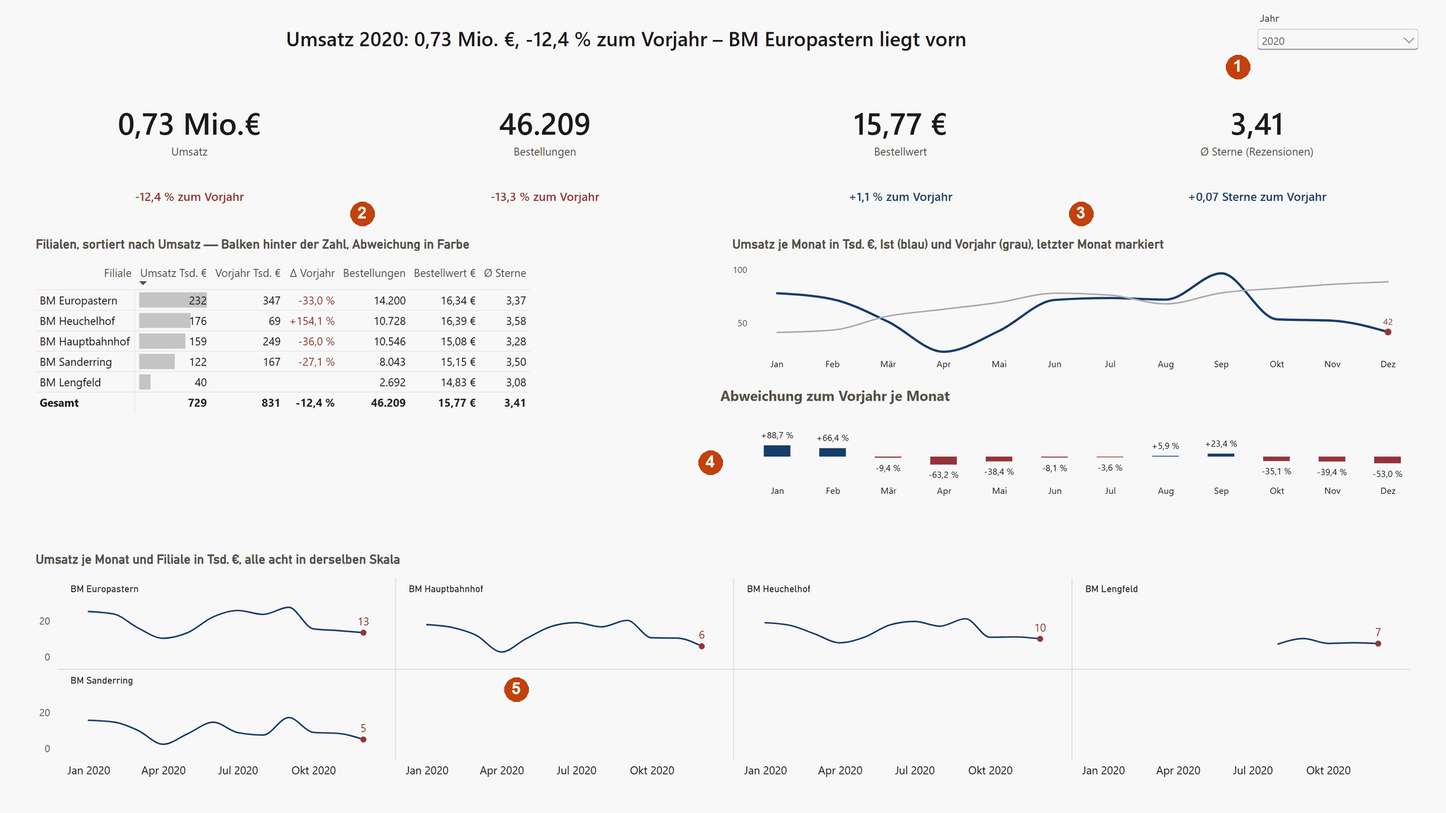
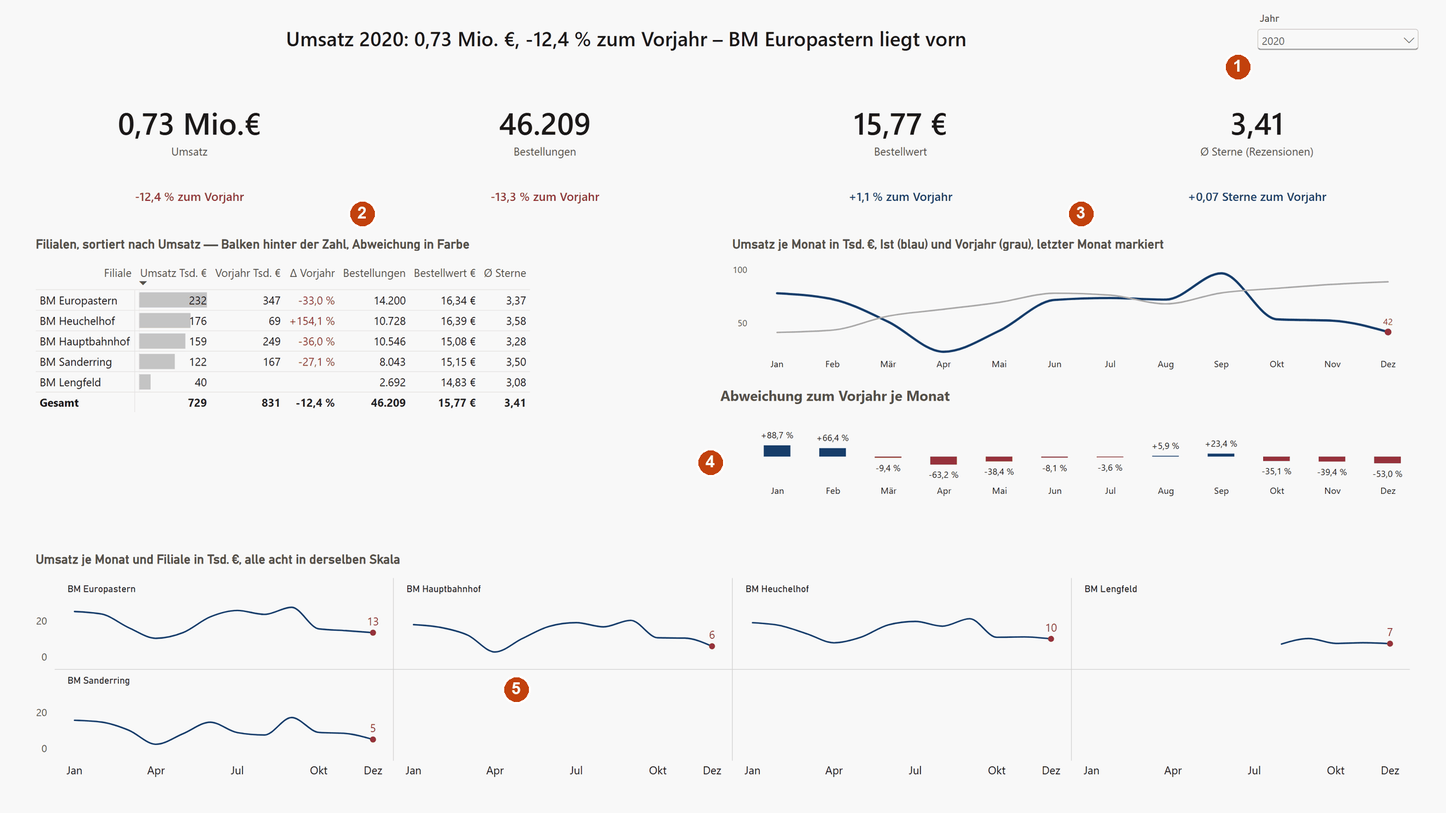
lab 04: erster und letzter Monat an der Achse der Small Multiples
Die stetige Datumsachse konnte den Dezember nicht anzeigen — Power BI setzt
ihre Teilstriche auf Quartalsanfänge, und ein Achsenminimum verschiebt sie
nicht. Stattdessen eine berechnete Spalte auf kategorialer Achse:

  Monatsstufe = IF(MOD(dim_date[month] - 1, 3) = 0 || dim_date[month] = 12,
      dim_date[Monat], REPT(UNICHAR(8203), dim_date[month]))

Sie gibt das Kürzel nur für Januar, April, Juli, Oktober und Dezember zurück,
für die übrigen Monate eine unterschiedlich lange Kette aus Zeichen ohne
Breite. Alle zwölf Kategorien bleiben verschieden, sichtbar sind fünf:
Jan · Apr · Jul · Okt · Dez, der letzte genau unter dem roten Endpunkt.

Die Spalte Monatsbeginn ist damit überflüssig und aus dem Modell entfernt.
Alle drei Bilder neu aufgenommen; dashboard-smallmultiples.png zeigt jetzt
die Formelleiste mit der Spalte statt der Achseneinstellung. Lab 04, DAX-
Vorlage, B04 und Spec nachgezogen.

diff --git a/web/lab/lab-04-powerbi.html b/web/lab/lab-04-powerbi.html
@@ -313,16 +313,15 @@
     </div>
     <div class="shot">
       <div class="shot-bar"><span class="ampel"><i></i><i></i><i></i></span><span class="titel">Small Multiples</span><span class="spacer"></span>Power BI Desktop · August 2026</div>
-      <a class="foto" href="assets/powerbi/dashboard-smallmultiples.png" target="_blank" rel="noopener"><img src="assets/powerbi/dashboard-smallmultiples.png" alt="Dashboard-Seite mit markiertem Liniendiagramm der acht Filialen; rechts der Build-Bereich mit X-Achse Monatsbeginn, Y-Achse Umsatz und letzter Monat, Small Multiples Filiale; daneben der Formatbereich mit X-Achse, Typ Fortlaufend und dem Abschnitt Bereich; im Dashboard acht Linien mit den Achsenbeschriftungen Jan 2025, Apr 2025, Jul 2025, Okt 2025 und roten Endpunkten" width="2056" height="1174" loading="lazy"></a>
+      <a class="foto" href="assets/powerbi/dashboard-smallmultiples.png" target="_blank" rel="noopener"><img src="assets/powerbi/dashboard-smallmultiples.png" alt="Power BI Desktop mit markiertem Liniendiagramm der acht Filialen; oben die Formelleiste mit Monatsstufe = IF(MOD(dim_date[month] - 1, 3) = 0 || dim_date[month] = 12, dim_date[Monat], REPT(UNICHAR(8203), dim_date[month])); rechts der Build-Bereich mit X-Achse Monatsstufe, Y-Achse Umsatz und letzter Monat, Small Multiples Filiale; im Dashboard acht Linien mit den Achsenbeschriftungen Jan, Apr, Jul, Okt, Dez und roten Endpunkten über Dez" width="2056" height="1159" loading="lazy"></a>
     </div>
     <p class="foto-hinweis">Bildschirmfoto vom 22.09.2026, Power BI Desktop 2.157.1354.0 (August 2026) unter Windows 11, deutsche Oberfläche — zum Vergrößern anklicken.</p>
     <ol class="shot-legende">
-      <li><span class="callout">1</span><span>X-Achse: die Spalte <code>Monatsbeginn</code> aus <code>dim_date</code> — <code>DATE(dim_date[year], dim_date[month], 1)</code>, also der Erste jedes Monats. Ein Datum statt der Textspalte <code>Monat</code>, damit die Achse stetig sein kann.</span></li>
-      <li><span class="callout">2</span><span>Typ „Fortlaufend“ (Format → X-Achse): Power BI setzt die Beschriftungen selbst — hier vier statt zwölf, Jan 2025 bis Okt 2025. Eine kategoriale Achse beschriftet jeden der zwölf Monate; in acht kleinen Diagrammen wird das unruhig.</span></li>
-      <li><span class="callout">3</span><span>Y-Achse: <code>Umsatz Tsd</code> und dazu <code>Umsatz Tsd letzter Monat</code>, ein Measure, das nur im jüngsten Monat einen Wert hat. Es zeichnet den roten Punkt und trägt die einzige Beschriftung.</span></li>
+      <li><span class="callout">1</span><span>Die berechnete Spalte <code>Monatsstufe</code> in der Formelleiste: Sie gibt für Januar, April, Juli, Oktober und Dezember das Monatskürzel zurück, für die übrigen Monate eine unterschiedlich lange Kette aus Zeichen ohne Breite (<code>UNICHAR(8203)</code>). So bleiben alle zwölf Kategorien verschieden, aber nur fünf tragen eine sichtbare Beschriftung. Sortiert wird nach <code>month</code> (Spaltentools → Nach Spalte sortieren).</span></li>
+      <li><span class="callout">2</span><span>X-Achse: <code>Monatsstufe</code> statt <code>Monat</code>. Die Achse bleibt kategorial — Power BI beschriftet jede Kategorie, und die leeren fallen nicht auf. Eine stetige Datumsachse kann das nicht: Sie setzt ihre Teilstriche auf Quartalsanfänge und lässt den letzten Monat weg.</span></li>
+      <li><span class="callout">3</span><span>Y-Achse: <code>Umsatz Tsd</code> und dazu <code>Umsatz Tsd letzter Monat</code>, ein Measure, das nur im jüngsten Monat einen Wert hat. Es zeichnet den roten Punkt und trägt die einzige Beschriftung — Marker und Datenbeschriftungen sind je Serie eingestellt (Format → Marker bzw. Datenbeschriftungen → Einstellungen übernehmen auf → Serie).</span></li>
       <li><span class="callout">4</span><span>Small Multiples: <code>branch_name</code> — aus einem Diagramm werden acht, zwei Zeilen zu vier Spalten (Format → Small Multiples → Layout).</span></li>
-      <li><span class="callout">5</span><span>Das Ergebnis mit gemeinsamer Skala 0 bis 50 Tsd. €: Die Höhe der Linie ist zwischen den Filialen vergleichbar, weil jede dieselbe Achse hat.</span></li>
-      <li><span class="callout">6</span><span>Marker und Datenbeschriftungen je Serie: für <code>Umsatz Tsd</code> aus, für <code>letzter Monat</code> an — Format → Datenbeschriftungen bzw. Marker → Einstellungen übernehmen auf → Serie.</span></li>
+      <li><span class="callout">5</span><span>Das Ergebnis: <strong>Jan · Apr · Jul · Okt · Dez</strong> unter jeder der acht Linien, der rote Endpunkt genau über „Dez“, und eine gemeinsame Skala 0 bis 50 Tsd. € — die Höhe der Linie ist zwischen den Filialen vergleichbar, weil jede dieselbe Achse hat.</span></li>
     </ol>
     <div class="concept-box">
       <h3>Was das Dashboard nicht tut</h3>

diff --git a/docs/superpowers/specs/2026-09-12-bm-analyse-lernumgebung-design.md b/docs/superpowers/specs/2026-09-12-bm-analyse-lernumgebung-design.md
@@ -472,7 +472,7 @@ jeder Seite im Browser (Kopf, Navigation, Übungen, Datenbankband), Aufruf von
 
 **Stand 21. September 2026 (Prüfung von Lab 04 mit Power BI Desktop, dazu ein Dashboard):** Lab 04 wurde in Roberts Parallels-VM (Windows 11, deutsche Oberfläche) mit Power BI Desktop 2.157.1354.0 (August 2026) und dem Demo-Konto durchgespielt: Verbindung, Navigator, Import der sieben Tabellen, Modellansicht, fünf Measures, Seite „Bericht“ (Tabelle der Kontrollzahlen, Balken je Filiale, Linie je Monat, Seitenfilter 2025) — Kontrollzahlen 2.994.771,13 € · 136.557 · 21,93 € · 3,75 wie in `v_kennzahlen_jahr`. Auf Roberts Wunsch kam eine Seite „Dashboard“ nach den Regeln aus `references/diagramme.md` (Tufte, Bissantz, IBCS) dazu: Titel als Measure, vier Kacheln mit Abweichung zum Vorjahr, Matrix der Filialen mit Datenbalken hinter der Zahl, Ist gegen Vorjahr je Monat mit markiertem letztem Punkt, Abweichung als eigene Zeile in Grün/Rot, Small Multiples je Filiale in gleicher Skala, Monatskürzel auf den Achsen; 20 zusätzliche Measures und die Spalte `Monat` (Vorlage `web/lab/vorlagen/powerbi-dashboard.dax`), das Projekt als PBIP ohne Daten und Kennwort unter `powerbi/BurgerMetrics/` (die Seite „Dashboard“ ist als PBIR-JSON geschrieben und in Power BI geladen, geprüft und gespeichert). Befunde und Folgen im Lab: (1) Die Verbindung ist ein einziger Dialog „Mit Datenquelle verbinden“ (Server mit Port, Datenbank, Importieren/DirectQuery, Erweiterte Optionen mit SQL-Anweisung, Authentifizierungsart Standard, Datenschutzebene, Kästchen „Verschlüsselte Verbindung verwenden“); der Wortlaut einer Warnung zur unverschlüsselten Verbindung trat nicht auf (Anmeldung war gespeichert) und wird nicht mehr behauptet. (2) Der Navigator listet Tabellen und gewöhnliche Sichten (48 Einträge), keine materialisierten — die 38 `v_*` fehlen; Weg über „SQL-Anweisung“ mit Genehmigung der nativen Abfrage belegt (`v_kennzahlen_jahr`, zehn Zeilen). (3) Nach dem Laden entstanden acht Beziehungen (alle `_id`-Spalten, im Projekt `AutoDetected_`), die zwei Fremdschlüssel auf `dim_date.date` fehlten trotz beider Optionen und wurden von Hand angelegt; `fact_reviews → fact_orders` legte Power BI selbst als 1:1 inaktiv an (`order_id` beidseitig eindeutig). Die Aussage „13 Fremdschlüssel → 13 Beziehungen“ ist gestrichen. (4) DirectQuery über `fact_order_items` scheitert mit dem belegten Wortlaut „Das Resultset einer Abfrage an eine externe Datenquelle hat die maximal zulässige Größe von 1000000 Zeilen überschritten.“; die inaktive Filialbeziehung zeigt in jedem Balken die Gesamtsumme plus eine Zeile „(Leer)“ (nachgestellt). (5) Die zwei Nachbildungen sind durch 20 Bildschirmfotos unter `web/lab/assets/powerbi/` ersetzt (2,6 MB); Lab 04 hat einen neuen Abschnitt „Das Dashboard“, Befehlskarten B03/B04, Checkliste W04-05 mit acht Schritten, Quizfrage zu den Beziehungen; `LABS` in `bm.js` nennt 150 Minuten; `verify.mjs` 803 Zusicherungen, 0 Fehler. Werkzeuglehre: Parallels-Fenster nur per `computer_batch` bedienbar; Mac-seitiges Schreiben in den VM-Ordner hinterlässt `._*`-Dateien, die Power BI als TMDL zu lesen versucht — vor jedem Öffnen löschen. Nicht geprüft: der Wortlaut der Verschlüsselungswarnung, die Fan Trap im Modell (Zahlen aus SQL), das Verhalten mit allen 14 Tabellen.
 
-**Stand 22. September 2026 (Kennzahlen-Dashboard in Tableau):** Auf Roberts Wunsch wurde das Dashboard aus Lab 04 mit Tableau Desktop 2026.2 (macOS, deutsche Oberfläche, Demo-Konto) nachgebaut und Lab 05 um den Abschnitt „Das Kennzahlen-Dashboard“ erweitert (Roberts Vorgabe vom 22.09.: keine Nennung von Tufte/Bissantz in Überschriften — auch die Lab-04-Einleitung angepasst): Datenquelle aus `fact_orders`, `dim_branch` und `fact_reviews` (Beziehung `Order Id = Order Id`, von Tableau nicht vorgeschlagen) als Extrakt; Parameter `Jahr` statt eines Filters, weil ein Filter das Vorjahr aus dem Blatt entfernen würde — Ist und Vorjahr als `SUM(IF YEAR([Date]) = [Jahr] THEN [Net Total] END)` und `[Jahr] - 1`, ohne Datumstabelle; 27 Calculated Fields (`web/lab/vorlagen/tableau-dashboard-felder.txt`, Befehlskarte B05), darunter der rote Punkt als Doppelachse mit einem Feld, das nur im jüngsten Monat einen Wert hat, `Top Filiale` als verschachtelter FIXED-Ausdruck und der Titel als Feld (`STR()` schreibt Dezimalpunkte, `REPLACE` das Komma); zehn Blätter; nach Roberts Rückmeldung zur ersten Fassung („zu gedrängt, zu wenig Weißraum, untere Grafik zu lang gestreckt“) neu gesetzt: 1600 × 1100, ein vertikaler Container als Rahmen mit horizontalen Containern fester Höhe je Reihe (80/140/390), zwölf Pixel äußere Füllung je Kachel und 20 am Rand, Trenn- und Rasterlinien über Format → Linien entfernt, die Small Multiples in der dritten Runde (Roberts Rückmeldung: Filialname als Überschrift, nicht als Label; gleiche Höhen; letzter Monat an der Achse; Dropdown) als zwei Blätter zu je vier Filialen mit `Branch Name` auf Spalten (Überschrift), Filter auf die Tabellenberechnung `Zeile = INT((INDEX() - 1) / 4)` (0/1, Berechnen per Branch Name), feste Achse 10–60, Teilstriche der Monatsachse alle zwei Monate ab Februar (Dez. angetragen); Balken und Tabelle auf „Gesamte Ansicht“, damit die mittlere Reihe unten bündig schließt; die Abweichung behält ihre Achse in Weiß plus 25 px innere Füllung, ihr Titel ist ein Textobjekt, damit Linie und Säulen monatsgenau übereinanderstehen; Linienachsen ohne Null, Monatskürzel über das Datumsformat „Abkürzung“; der Parameter mit Werteliste 2018–2026 unverankert (Layout x 1380, y 24, 180 × 56) als Kompaktliste (Dropdown), Blatttitel als Legende mit `<Parameter.Jahr>`, Achsentitel und Feldbeschriftungen ausgeblendet, Aliasse für die Spaltenköpfe (Befehlskarte B06). Kontrollzahlen wie in Lab 04: 2.994.771 · 136.557 · 21,93 · 3,750, Abweichungen +5,4 % · +2,4 % · +2,9 % · +0,05 Sterne, Titel „Umsatz 2025: 2,99 Mio. €, +5,4 % zum Vorjahr – BM Europastern liegt vorn“. Zwölf weitere Bildschirmfotos unter `web/lab/assets/tableau/` (Fensteraufnahmen; Menüs und Dialoge als eigene Fenster aufgenommen und an ihrer Bildschirmposition eingesetzt, weil eine Vollbildaufnahme fremde Fenster mitnähme), die Arbeitsmappe unter `tableau/BurgerMetrics.twb` (XML, ohne Daten und Kennwort, `tableau/README.md`), Sperrdatei über `.gitignore` ausgeschlossen; Quiz W05-03 um die Frage Parameter gegen Filter, Checkliste W05-05 um die Kür ergänzt; Lab 05 auf 150 Minuten; `verify.mjs` 815 Zusicherungen, 0 Fehler. Befunde: (1) Tableau-Kacheln im Raster lassen sich nicht über die Größenfelder des Layout-Reiters setzen (nur Anzeige), Ränder werden gezogen oder Container verteilt; (2) Anpassung und Blatttitel sind je Kachel im Dashboard einzustellen, nicht im Blatt; (3) ein Textblatt in Standard-Anpassung bricht Spaltenköpfe um, im Dashboard erst nach einer höheren Kopfzeile — deshalb Aliasse mit Trennstrich („Bestel- lungen“); (4) `STR()` einer Zahl liefert den Dezimalpunkt der Formelsprache, nicht der Oberfläche; (5) Kacheln bekommen ihre Höhe verlässlich nur über „Höhe fixieren“ im Menü des umgebenden Containers, die Größenfelder im Layout-Reiter sind bei Rasterkacheln nur Anzeige; (6) eine Tabellenberechnung mit `INDEX()` zählt ohne „Berechnen per“ die innerste Dimension (Monate) — für das Raster muss sie über `Branch Name` laufen. Vierte Runde (Robert): alle Hilfslinien entfernt — je Blatt Format → Linien (Raster-, Null-, Achsenmaßstäbe, Achsenteilstriche „Keine“, Reiter Blatt/Zeilen/Spalten getrennt) und Format → Rahmen (Zeilen-/Spaltentrennung „Keine“); Lab 05 verlinkt die `.twb` im Repository (Vorlagenkarte, Stand-Hinweis, Fotohinweis). Fünfte Runde (Robert, nach dem Merge): Signalfarben plus Blau `#4E79A7` (Blau der Ist-Linie) und minus Rot `#E15759` statt Grün — in der Mappe war minus bis dahin das Tableau-Standardblau; gesetzt über „Farben bearbeiten…“ am Feld `Δ Umsatz Richtung` (der Wert „minus“ erscheint dort erst, wenn der Parameter auf ein Jahr mit Minus-Monaten steht) und als Schriftfarbe der Δ-Zeile in den vier Karten; neues Bild `dashboard-farben.png`, Lab-Text nennt die Grenze, dass Kartentexte eine feste Schriftfarbe haben. Lab 04 (Power BI) am selben Tag nachgezogen: die vier Farb-Measures auf `#003E6E` (THWS-Blau, Leitfarbe der Ist-Linie), Modell in der VM über „Apply external changes“ neu geladen und mit `Aktualisieren` neu gerechnet (ein Neuladen allein genügt nicht — die Visuals behalten ihr Abfrageergebnis; zwei Visuals meldeten dabei „Der Vorgang wurde abgebrochen“ und rendern nach einem zweiten Lauf), Bildschirmfoto `assets/powerbi/dashboard.png` neu, Lab-04-Text, DAX-Vorlage und Befehlskarte B03 angepasst; die von Power BI beim Speichern neu erzeugte `cultures/de-DE.tmdl` (16.000 Zeilen linguistische Metadaten) wurde nicht übernommen. Weitere Befunde: (7) ein Blatt ohne Achse hat einen breiteren Zeichenbereich als eines mit Achse — gleiche Monatsspalten nur mit unsichtbarer (weißer) Achse; (8) eine Kachel im Raster bekommt Weißraum über „Äußere Füllung“, ihre Höhe über den umgebenden Container; (9) INDEX() für Small Multiples zählt ohne „Berechnen per“ die Monate. Sechste Runde (Robert: „mach das auch in Tableau dynamisch“): Die Δ-Zeile der vier Karten ist jetzt ein eigenes Blatt — Tableau färbt eine Beschriftung immer ganz, deshalb trägt „Karte Umsatz“ nur Zahl und Name, „Karte Umsatz Δ“ nur die Δ-Zeile mit `Δ Umsatz Richtung` auf Farbe; dazu drei neue Richtungsfelder (`Δ Bestellungen Richtung`, `Δ Bestellwert Richtung`, `Δ Ø Sterne Richtung`; zusammen 30 Felder) und vier neue Blätter (zusammen fünfzehn). Die Streifen liegen unverankert unter ihrer Karte (y 207, 388 × 34, x 24 · 412 · 800 · 1188), die vier Farblegenden sind aus dem Dashboard entfernt; geprüft mit dem Parameter auf 2020 (Umsatz −12,4 % und Bestellungen −13,3 % in Rot) und auf 2019 (Ø Sterne −0,27 in Rot). Neues Bild `dashboard-delta.png`, neue Aufnahmen von `dashboard-fertig.png` und `dashboard-karte.png`; Vorlage, B05, B06, W05-05, `tableau/README.md` und der Abschnittstext nachgezogen. Am selben Tag in Power BI: die Small Multiples bekommen eine stetige Datumsachse — neue berechnete Spalte `Monatsbeginn = DATE(dim_date[year], dim_date[month], 1)` in `dim_date`, im Visual als Kategorie statt `Monat` (Text) und Format → X-Achse → Typ „Fortlaufend“, damit Power BI die Beschriftungen ausdünnt wie Tableau (mit `date` allein wird die Achse tagesgenau und unlesbar; `preferredCategoryWidth` ändert daran nichts und lässt die Achse scrollen). Weitere Befunde: (10) „Farben bearbeiten…“ speichert nur Werte, die im Blatt vorkommen — für ein Feld, dessen „minus“ im Bestand nie auftritt (Δ Bestellwert ist in jedem Jahr positiv), ist die Zuordnung nur im XML der `.twb` zu ergänzen; (11) wird eine Kachel aus einem Flow-Container genommen, verteilt Tableau die frei werdende Höhe auf die übrigen Reihen — die Titelreihe wuchs dabei von 80 auf 195 Pixel und wurde über „Höhe bearbeiten…“ im Menü der Kachel wieder gesetzt; (12) unverankerte Kacheln behalten ihre absoluten Koordinaten, wenn sich die Reihen darunter verschieben, und sind nach jeder Layoutänderung nachzuziehen. Siebte Runde am selben Tag (Power BI, nach einem Bildschirmfoto mit Jahr 2020): Dabei fiel auf, dass die Säulen der Abweichung je Monat **alle** rot standen, auch die vier Plus-Monate — der Formatstil der bedingten Formatierung stand auf „Regeln“ mit `Monat` als Grundlage statt auf „Feldwert“ mit `Δ Umsatz Farbe`; Power BI schreibt beim Umstellen den Selektor `dataViewWildcard` (`matchingOption: 1`), ohne den die Farbe einmal für das ganze Visual statt je Datenpunkt ausgewertet wird (die Matrix war nie betroffen, weil ihre Formatierung einen `metadata`-Selektor trägt). Dazu Roberts Vorgaben: Monate von Linien- und Säulendiagramm exakt in einer Flucht, Überschriften größer und fett. Umgesetzt: Reihenbeschriftungen des Liniendiagramms aus (sie verkürzten die Zeichenfläche um 196 px und waren die Hauptursache des Versatzes), Titel des Säulendiagramms aus und als **Textfeld** bei x 956 gesetzt, das Diagramm selbst auf x 969 / Breite 938 — damit decken sich Jan bis Dez auf ein Pixel genau; Überschriften der drei übrigen Visuals auf 14 pt fett. Nicht erreichbar war der letzte Monat an der Achse der Small Multiples: Eine stetige Datumsachse setzt ihre Teilstriche auf Quartalsanfänge (Jan · Apr · Jul · Okt), ein Achsenminimum vom 01.12.2024 verschiebt sie nicht, und eine kategoriale Achse beschriftet wieder alle zwölf Monate — Tableau kann das über feste Teilstrichabstände, Power BI nicht. Neues Bild `assets/powerbi/dashboard-2020.png`, `dashboard.png` neu aufgenommen, Legendenpunkte 6 und 7 in Lab 04 nachgezogen. Werkzeuglehre: Power BI Desktop arbeitet in der VM auf `C:\Users\robert\burgermetrics-pbi` (über `/Volumes/[C] Windows 11.hidden/...` auch vom Mac aus erreichbar); Änderungen müssen von dort ins Repo kopiert werden, und Mac-seitige Schreibzugriffe hinterlassen `._*`-Dateien, die vor dem Öffnen zu löschen sind. Nicht geprüft: das Öffnen der `.twb` auf einem anderen Rechner (fehlender Extrakt) und Tableau Public.
+**Stand 22. September 2026 (Kennzahlen-Dashboard in Tableau):** Auf Roberts Wunsch wurde das Dashboard aus Lab 04 mit Tableau Desktop 2026.2 (macOS, deutsche Oberfläche, Demo-Konto) nachgebaut und Lab 05 um den Abschnitt „Das Kennzahlen-Dashboard“ erweitert (Roberts Vorgabe vom 22.09.: keine Nennung von Tufte/Bissantz in Überschriften — auch die Lab-04-Einleitung angepasst): Datenquelle aus `fact_orders`, `dim_branch` und `fact_reviews` (Beziehung `Order Id = Order Id`, von Tableau nicht vorgeschlagen) als Extrakt; Parameter `Jahr` statt eines Filters, weil ein Filter das Vorjahr aus dem Blatt entfernen würde — Ist und Vorjahr als `SUM(IF YEAR([Date]) = [Jahr] THEN [Net Total] END)` und `[Jahr] - 1`, ohne Datumstabelle; 27 Calculated Fields (`web/lab/vorlagen/tableau-dashboard-felder.txt`, Befehlskarte B05), darunter der rote Punkt als Doppelachse mit einem Feld, das nur im jüngsten Monat einen Wert hat, `Top Filiale` als verschachtelter FIXED-Ausdruck und der Titel als Feld (`STR()` schreibt Dezimalpunkte, `REPLACE` das Komma); zehn Blätter; nach Roberts Rückmeldung zur ersten Fassung („zu gedrängt, zu wenig Weißraum, untere Grafik zu lang gestreckt“) neu gesetzt: 1600 × 1100, ein vertikaler Container als Rahmen mit horizontalen Containern fester Höhe je Reihe (80/140/390), zwölf Pixel äußere Füllung je Kachel und 20 am Rand, Trenn- und Rasterlinien über Format → Linien entfernt, die Small Multiples in der dritten Runde (Roberts Rückmeldung: Filialname als Überschrift, nicht als Label; gleiche Höhen; letzter Monat an der Achse; Dropdown) als zwei Blätter zu je vier Filialen mit `Branch Name` auf Spalten (Überschrift), Filter auf die Tabellenberechnung `Zeile = INT((INDEX() - 1) / 4)` (0/1, Berechnen per Branch Name), feste Achse 10–60, Teilstriche der Monatsachse alle zwei Monate ab Februar (Dez. angetragen); Balken und Tabelle auf „Gesamte Ansicht“, damit die mittlere Reihe unten bündig schließt; die Abweichung behält ihre Achse in Weiß plus 25 px innere Füllung, ihr Titel ist ein Textobjekt, damit Linie und Säulen monatsgenau übereinanderstehen; Linienachsen ohne Null, Monatskürzel über das Datumsformat „Abkürzung“; der Parameter mit Werteliste 2018–2026 unverankert (Layout x 1380, y 24, 180 × 56) als Kompaktliste (Dropdown), Blatttitel als Legende mit `<Parameter.Jahr>`, Achsentitel und Feldbeschriftungen ausgeblendet, Aliasse für die Spaltenköpfe (Befehlskarte B06). Kontrollzahlen wie in Lab 04: 2.994.771 · 136.557 · 21,93 · 3,750, Abweichungen +5,4 % · +2,4 % · +2,9 % · +0,05 Sterne, Titel „Umsatz 2025: 2,99 Mio. €, +5,4 % zum Vorjahr – BM Europastern liegt vorn“. Zwölf weitere Bildschirmfotos unter `web/lab/assets/tableau/` (Fensteraufnahmen; Menüs und Dialoge als eigene Fenster aufgenommen und an ihrer Bildschirmposition eingesetzt, weil eine Vollbildaufnahme fremde Fenster mitnähme), die Arbeitsmappe unter `tableau/BurgerMetrics.twb` (XML, ohne Daten und Kennwort, `tableau/README.md`), Sperrdatei über `.gitignore` ausgeschlossen; Quiz W05-03 um die Frage Parameter gegen Filter, Checkliste W05-05 um die Kür ergänzt; Lab 05 auf 150 Minuten; `verify.mjs` 815 Zusicherungen, 0 Fehler. Befunde: (1) Tableau-Kacheln im Raster lassen sich nicht über die Größenfelder des Layout-Reiters setzen (nur Anzeige), Ränder werden gezogen oder Container verteilt; (2) Anpassung und Blatttitel sind je Kachel im Dashboard einzustellen, nicht im Blatt; (3) ein Textblatt in Standard-Anpassung bricht Spaltenköpfe um, im Dashboard erst nach einer höheren Kopfzeile — deshalb Aliasse mit Trennstrich („Bestel- lungen“); (4) `STR()` einer Zahl liefert den Dezimalpunkt der Formelsprache, nicht der Oberfläche; (5) Kacheln bekommen ihre Höhe verlässlich nur über „Höhe fixieren“ im Menü des umgebenden Containers, die Größenfelder im Layout-Reiter sind bei Rasterkacheln nur Anzeige; (6) eine Tabellenberechnung mit `INDEX()` zählt ohne „Berechnen per“ die innerste Dimension (Monate) — für das Raster muss sie über `Branch Name` laufen. Vierte Runde (Robert): alle Hilfslinien entfernt — je Blatt Format → Linien (Raster-, Null-, Achsenmaßstäbe, Achsenteilstriche „Keine“, Reiter Blatt/Zeilen/Spalten getrennt) und Format → Rahmen (Zeilen-/Spaltentrennung „Keine“); Lab 05 verlinkt die `.twb` im Repository (Vorlagenkarte, Stand-Hinweis, Fotohinweis). Fünfte Runde (Robert, nach dem Merge): Signalfarben plus Blau `#4E79A7` (Blau der Ist-Linie) und minus Rot `#E15759` statt Grün — in der Mappe war minus bis dahin das Tableau-Standardblau; gesetzt über „Farben bearbeiten…“ am Feld `Δ Umsatz Richtung` (der Wert „minus“ erscheint dort erst, wenn der Parameter auf ein Jahr mit Minus-Monaten steht) und als Schriftfarbe der Δ-Zeile in den vier Karten; neues Bild `dashboard-farben.png`, Lab-Text nennt die Grenze, dass Kartentexte eine feste Schriftfarbe haben. Lab 04 (Power BI) am selben Tag nachgezogen: die vier Farb-Measures auf `#003E6E` (THWS-Blau, Leitfarbe der Ist-Linie), Modell in der VM über „Apply external changes“ neu geladen und mit `Aktualisieren` neu gerechnet (ein Neuladen allein genügt nicht — die Visuals behalten ihr Abfrageergebnis; zwei Visuals meldeten dabei „Der Vorgang wurde abgebrochen“ und rendern nach einem zweiten Lauf), Bildschirmfoto `assets/powerbi/dashboard.png` neu, Lab-04-Text, DAX-Vorlage und Befehlskarte B03 angepasst; die von Power BI beim Speichern neu erzeugte `cultures/de-DE.tmdl` (16.000 Zeilen linguistische Metadaten) wurde nicht übernommen. Weitere Befunde: (7) ein Blatt ohne Achse hat einen breiteren Zeichenbereich als eines mit Achse — gleiche Monatsspalten nur mit unsichtbarer (weißer) Achse; (8) eine Kachel im Raster bekommt Weißraum über „Äußere Füllung“, ihre Höhe über den umgebenden Container; (9) INDEX() für Small Multiples zählt ohne „Berechnen per“ die Monate. Sechste Runde (Robert: „mach das auch in Tableau dynamisch“): Die Δ-Zeile der vier Karten ist jetzt ein eigenes Blatt — Tableau färbt eine Beschriftung immer ganz, deshalb trägt „Karte Umsatz“ nur Zahl und Name, „Karte Umsatz Δ“ nur die Δ-Zeile mit `Δ Umsatz Richtung` auf Farbe; dazu drei neue Richtungsfelder (`Δ Bestellungen Richtung`, `Δ Bestellwert Richtung`, `Δ Ø Sterne Richtung`; zusammen 30 Felder) und vier neue Blätter (zusammen fünfzehn). Die Streifen liegen unverankert unter ihrer Karte (y 207, 388 × 34, x 24 · 412 · 800 · 1188), die vier Farblegenden sind aus dem Dashboard entfernt; geprüft mit dem Parameter auf 2020 (Umsatz −12,4 % und Bestellungen −13,3 % in Rot) und auf 2019 (Ø Sterne −0,27 in Rot). Neues Bild `dashboard-delta.png`, neue Aufnahmen von `dashboard-fertig.png` und `dashboard-karte.png`; Vorlage, B05, B06, W05-05, `tableau/README.md` und der Abschnittstext nachgezogen. Am selben Tag in Power BI: die Small Multiples bekommen eine stetige Datumsachse — neue berechnete Spalte `Monatsbeginn = DATE(dim_date[year], dim_date[month], 1)` in `dim_date`, im Visual als Kategorie statt `Monat` (Text) und Format → X-Achse → Typ „Fortlaufend“, damit Power BI die Beschriftungen ausdünnt wie Tableau (mit `date` allein wird die Achse tagesgenau und unlesbar; `preferredCategoryWidth` ändert daran nichts und lässt die Achse scrollen). Weitere Befunde: (10) „Farben bearbeiten…“ speichert nur Werte, die im Blatt vorkommen — für ein Feld, dessen „minus“ im Bestand nie auftritt (Δ Bestellwert ist in jedem Jahr positiv), ist die Zuordnung nur im XML der `.twb` zu ergänzen; (11) wird eine Kachel aus einem Flow-Container genommen, verteilt Tableau die frei werdende Höhe auf die übrigen Reihen — die Titelreihe wuchs dabei von 80 auf 195 Pixel und wurde über „Höhe bearbeiten…“ im Menü der Kachel wieder gesetzt; (12) unverankerte Kacheln behalten ihre absoluten Koordinaten, wenn sich die Reihen darunter verschieben, und sind nach jeder Layoutänderung nachzuziehen. Siebte Runde am selben Tag (Power BI, nach einem Bildschirmfoto mit Jahr 2020): Dabei fiel auf, dass die Säulen der Abweichung je Monat **alle** rot standen, auch die vier Plus-Monate — der Formatstil der bedingten Formatierung stand auf „Regeln“ mit `Monat` als Grundlage statt auf „Feldwert“ mit `Δ Umsatz Farbe`; Power BI schreibt beim Umstellen den Selektor `dataViewWildcard` (`matchingOption: 1`), ohne den die Farbe einmal für das ganze Visual statt je Datenpunkt ausgewertet wird (die Matrix war nie betroffen, weil ihre Formatierung einen `metadata`-Selektor trägt). Dazu Roberts Vorgaben: Monate von Linien- und Säulendiagramm exakt in einer Flucht, Überschriften größer und fett. Umgesetzt: Reihenbeschriftungen des Liniendiagramms aus (sie verkürzten die Zeichenfläche um 196 px und waren die Hauptursache des Versatzes), Titel des Säulendiagramms aus und als **Textfeld** bei x 956 gesetzt, das Diagramm selbst auf x 969 / Breite 938 — damit decken sich Jan bis Dez auf ein Pixel genau; Überschriften der drei übrigen Visuals auf 14 pt fett. Nicht erreichbar war der letzte Monat an der Achse der Small Multiples: Eine stetige Datumsachse setzt ihre Teilstriche auf Quartalsanfänge (Jan · Apr · Jul · Okt), ein Achsenminimum vom 01.12.2024 verschiebt sie nicht, und eine kategoriale Achse beschriftet wieder alle zwölf Monate — Tableau kann das über feste Teilstrichabstände, Power BI nicht. Neues Bild `assets/powerbi/dashboard-2020.png`, `dashboard.png` neu aufgenommen, Legendenpunkte 6 und 7 in Lab 04 nachgezogen. Werkzeuglehre: Power BI Desktop arbeitet in der VM auf `C:\Users\robert\burgermetrics-pbi` (über `/Volumes/[C] Windows 11.hidden/...` auch vom Mac aus erreichbar); Änderungen müssen von dort ins Repo kopiert werden, und Mac-seitige Schreibzugriffe hinterlassen `._*`-Dateien, die vor dem Öffnen zu löschen sind. Achte Runde (Robert: „bei den SM soll vor allem der letzte Datenpunkt mit einem Monatswert an der x-Achse angezeigt werden, auch der erste, dann ein Intervall"): Die stetige Datumsachse aus der sechsten Runde konnte das nicht — Power BI setzt ihre Teilstriche auf Quartalsanfänge, und ein Achsenminimum vom 01.12.2024 verschiebt sie nicht, es entsteht nur eine Lücke links. Lösung ist eine berechnete Spalte `Monatsstufe = IF(MOD(dim_date[month] - 1, 3) = 0 || dim_date[month] = 12, dim_date[Monat], REPT(UNICHAR(8203), dim_date[month]))` auf einer **kategorialen** Achse: Sie gibt das Kürzel nur für Januar, April, Juli, Oktober und Dezember zurück, für die übrigen Monate eine unterschiedlich lange Kette aus Zeichen ohne Breite. Alle zwölf Kategorien bleiben verschieden, sichtbar sind fünf — Jan · Apr · Jul · Okt · Dez, der letzte genau unter dem roten Endpunkt; sortiert nach `month`. Die Spalte `Monatsbeginn` aus der sechsten Runde ist damit überflüssig und wurde aus dem Modell entfernt. Bilder `dashboard.png`, `dashboard-2020.png` und `dashboard-smallmultiples.png` neu aufgenommen (das letzte zeigt jetzt die Formelleiste mit der Spalte statt der Achseneinstellung), Lab 04, DAX-Vorlage und B04 nachgezogen. Nicht geprüft: das Öffnen der `.twb` auf einem anderen Rechner (fehlender Extrakt) und Tableau Public.
 
 ## 12 Reihenfolge
 
